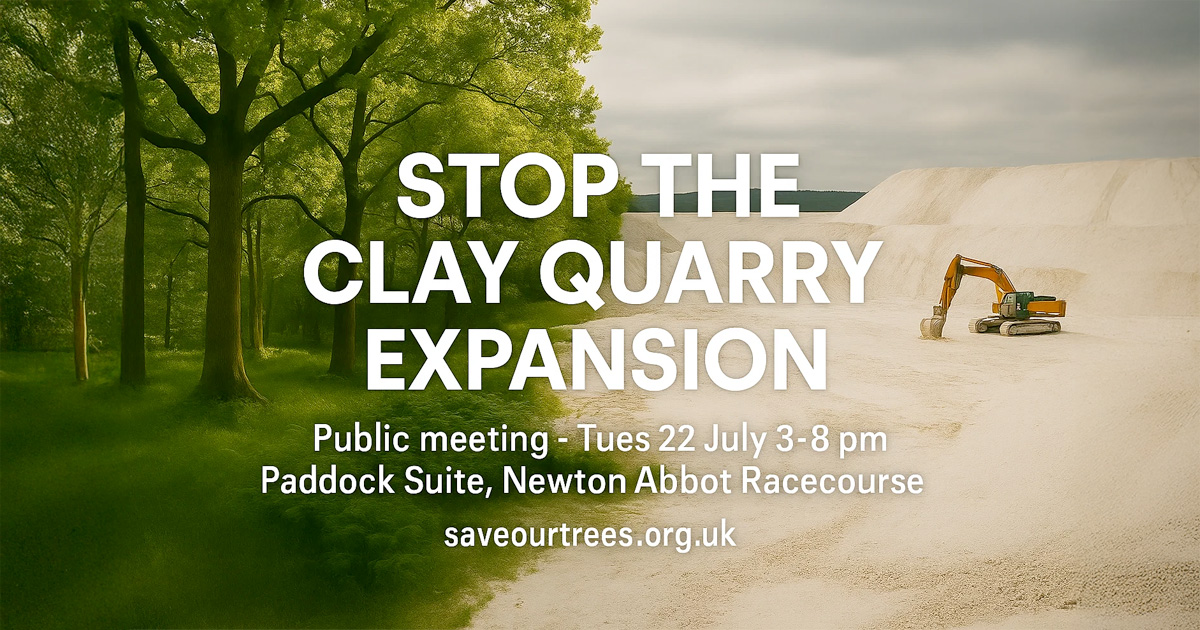
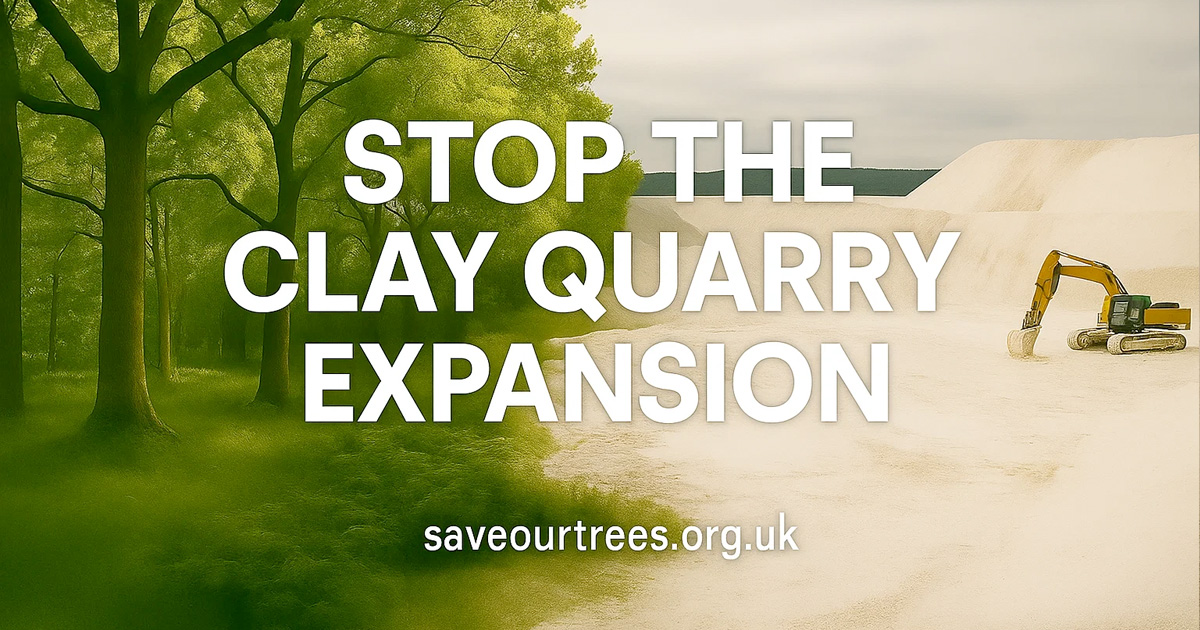
fdfdf

diff --git a/index.html b/index.html
@@ -11,7 +11,7 @@
 
   <!-- Open Graph / Twitter Card -->
   <meta property="og:title" content="STOP THE CLAY QUARRY EXPANSION" />
-  <meta property="og:description" content="Public meeting Tues 22 July • 3–8 pm @ Newton Abbot Racecourse (Paddock Suite)" />
+  <meta property="og:description" content="Sign up for email updates on our website, and help stop the destruction of the last forest in our area." />
   <meta property="og:image" content="https://saveourtrees.org.uk/images/poster.jpg" />
   <meta property="og:type" content="website" />
   <meta name="twitter:card" content="summary_large_image" />
